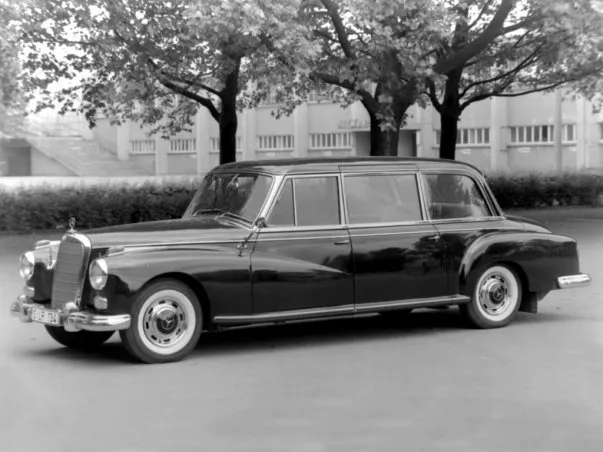
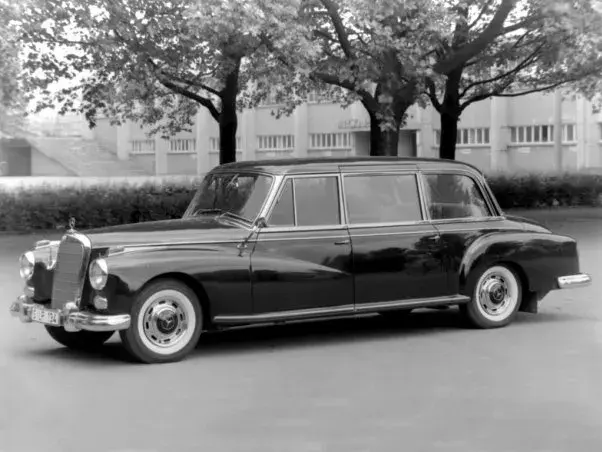
246

diff --git a/pic/ja_mb_img_l.html b/pic/ja_mb_img_l.html
@@ -386,8 +386,8 @@
 						<a href="full/l/w189l_d.jpg"><img loading="lazy" src="style/l/w189l_d.webp" alt="メルセデス,W189,ランドーレット,ダッシュボード" width="1000" height="721"></a>
 						<h5>他</h5>
 						<a href="full/l/w189h_f.jpg"><img loading="lazy" src="style/l/w189h_f.webp" alt="メルセデス,W189,ロングホイールベース,ハードトップ,フロント" width="1210" height="684"></a><br>
-						<a href="full/l/w189_fl.jpg"><img loading="lazy" src="style/l/w189_fl.webp" alt="メルセデス,W189,ロングホイールベース,フロント" width="603" height="452"></a>
-						<a href="full/l/w189l_fl.jpg"><img loading="lazy" src="style/l/w189l_fl.webp" alt="メルセデス,W189,ランドーレット,ハードトップ,フロント" width="603" height="452"></a>
+						<a href="full/l/w189_fl.jpg"><img loading="lazy" src="style/l/w189_fl.webp" alt="メルセデス,W189,ロングホイールベース,フロント" width="602" height="452"></a>
+						<a href="full/l/w189l_fl.jpg"><img loading="lazy" src="style/l/w189l_fl.webp" alt="メルセデス,W189,ランドーレット,ハードトップ,フロント" width="602" height="452"></a>
 					</section>
 				</div>
 			</div>

diff --git a/pic/mb_img_l.html b/pic/mb_img_l.html
@@ -386,8 +386,8 @@
 						<a href="full/l/w189l_d.jpg"><img loading="lazy" src="style/l/w189l_d.webp" alt="Mercedes,W189,landaulet,Instrumententafel" width="1000" height="721"></a>
 						<h5>Andere</h5>
 						<a href="full/l/w189h_f.jpg"><img loading="lazy" src="style/l/w189h_f.webp" alt="Mercedes,W189,lange,hardtop,Frontansicht" width="1210" height="684"></a><br>
-						<a href="full/l/w189_fl.jpg"><img loading="lazy" src="style/l/w189_fl.webp" alt="Mercedes,W189,lange,Frontansicht" width="603" height="452"></a>
-						<a href="full/l/w189l_fl.jpg"><img loading="lazy" src="style/l/w189l_fl.webp" alt="Mercedes,W189,landaulet,lange,Frontansicht" width="603" height="452"></a>
+						<a href="full/l/w189_fl.jpg"><img loading="lazy" src="style/l/w189_fl.webp" alt="Mercedes,W189,lange,Frontansicht" width="602" height="452"></a>
+						<a href="full/l/w189l_fl.jpg"><img loading="lazy" src="style/l/w189l_fl.webp" alt="Mercedes,W189,landaulet,lange,Frontansicht" width="602" height="452"></a>
 					</section>
 				</div>
 			</div>

diff --git a/pic/en_mb_img_l.html b/pic/en_mb_img_l.html
@@ -386,8 +386,8 @@
 						<a href="full/l/w189l_d.jpg"><img loading="lazy" src="style/l/w189l_d.webp" alt="Mercedes,W189,landaulet,Dashboard" width="1000" height="721"></a>
 						<h5>Others</h5>
 						<a href="full/l/w189h_f.jpg"><img loading="lazy" src="style/l/w189h_f.webp" alt="Mercedes,W189,longe,hardtop,Front view" width="1210" height="684"></a><br>
-						<a href="full/l/w189_fl.jpg"><img loading="lazy" src="style/l/w189_fl.webp" alt="Mercedes,W189,longe,Front view" width="603" height="452"></a>
-						<a href="full/l/w189l_fl.jpg"><img loading="lazy" src="style/l/w189l_fl.webp" alt="Mercedes,W189,landaulet,longe,Front view" width="603" height="452"></a>
+						<a href="full/l/w189_fl.jpg"><img loading="lazy" src="style/l/w189_fl.webp" alt="Mercedes,W189,longe,Front view" width="602" height="452"></a>
+						<a href="full/l/w189l_fl.jpg"><img loading="lazy" src="style/l/w189l_fl.webp" alt="Mercedes,W189,landaulet,longe,Front view" width="602" height="452"></a>
 					</section>
 				</div>
 			</div>
